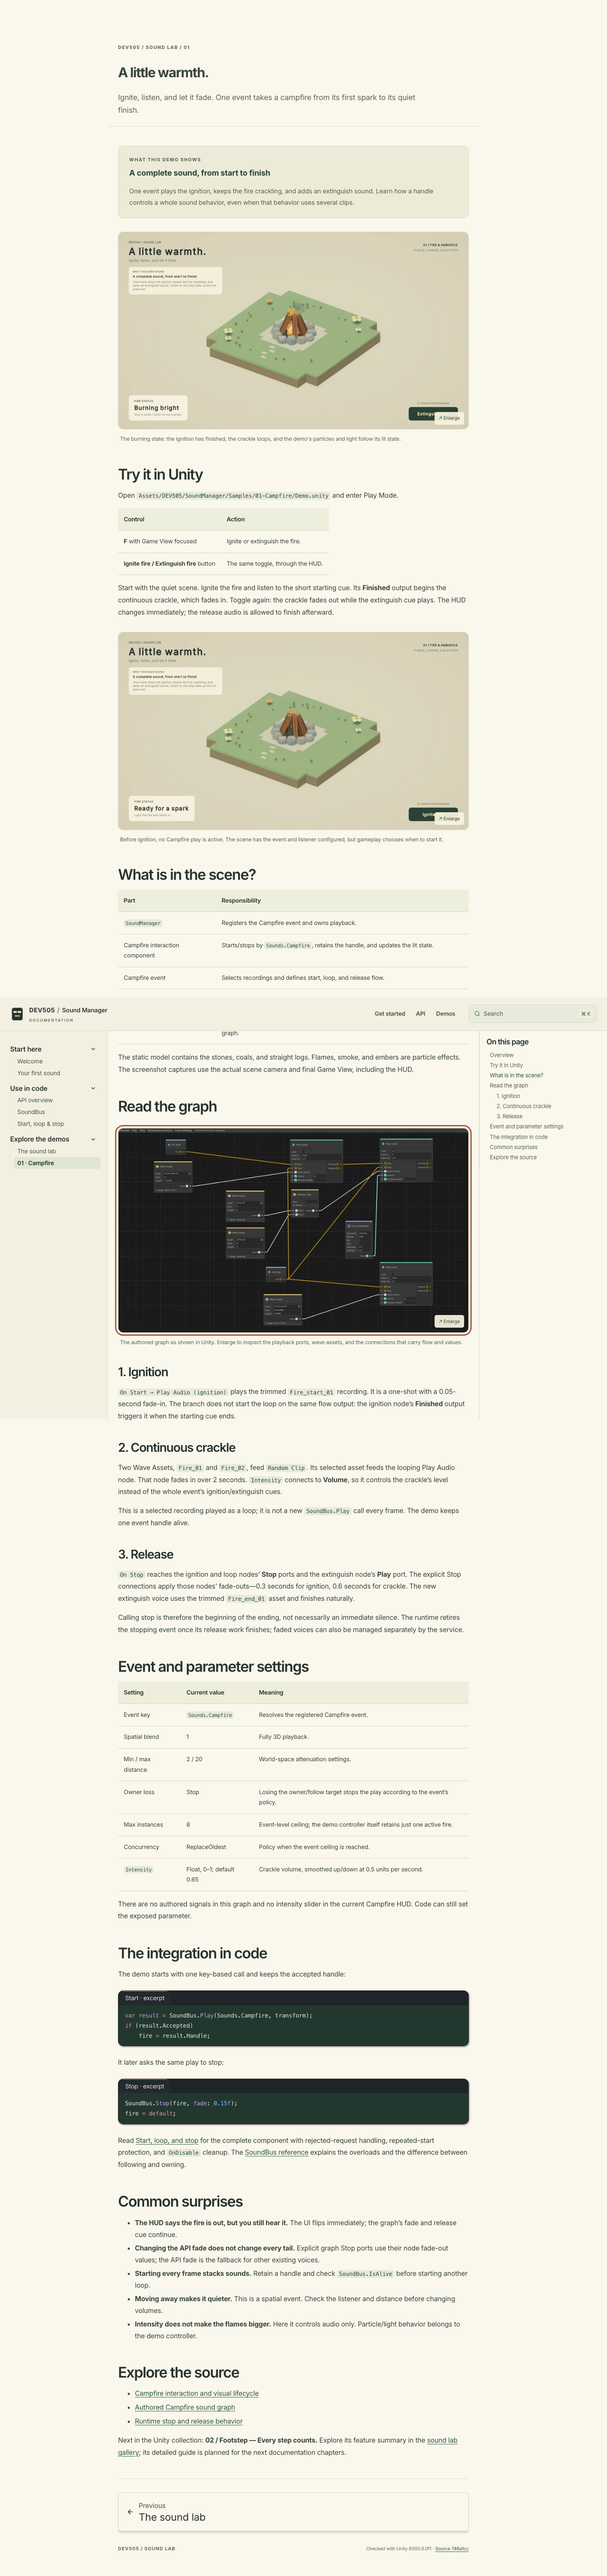
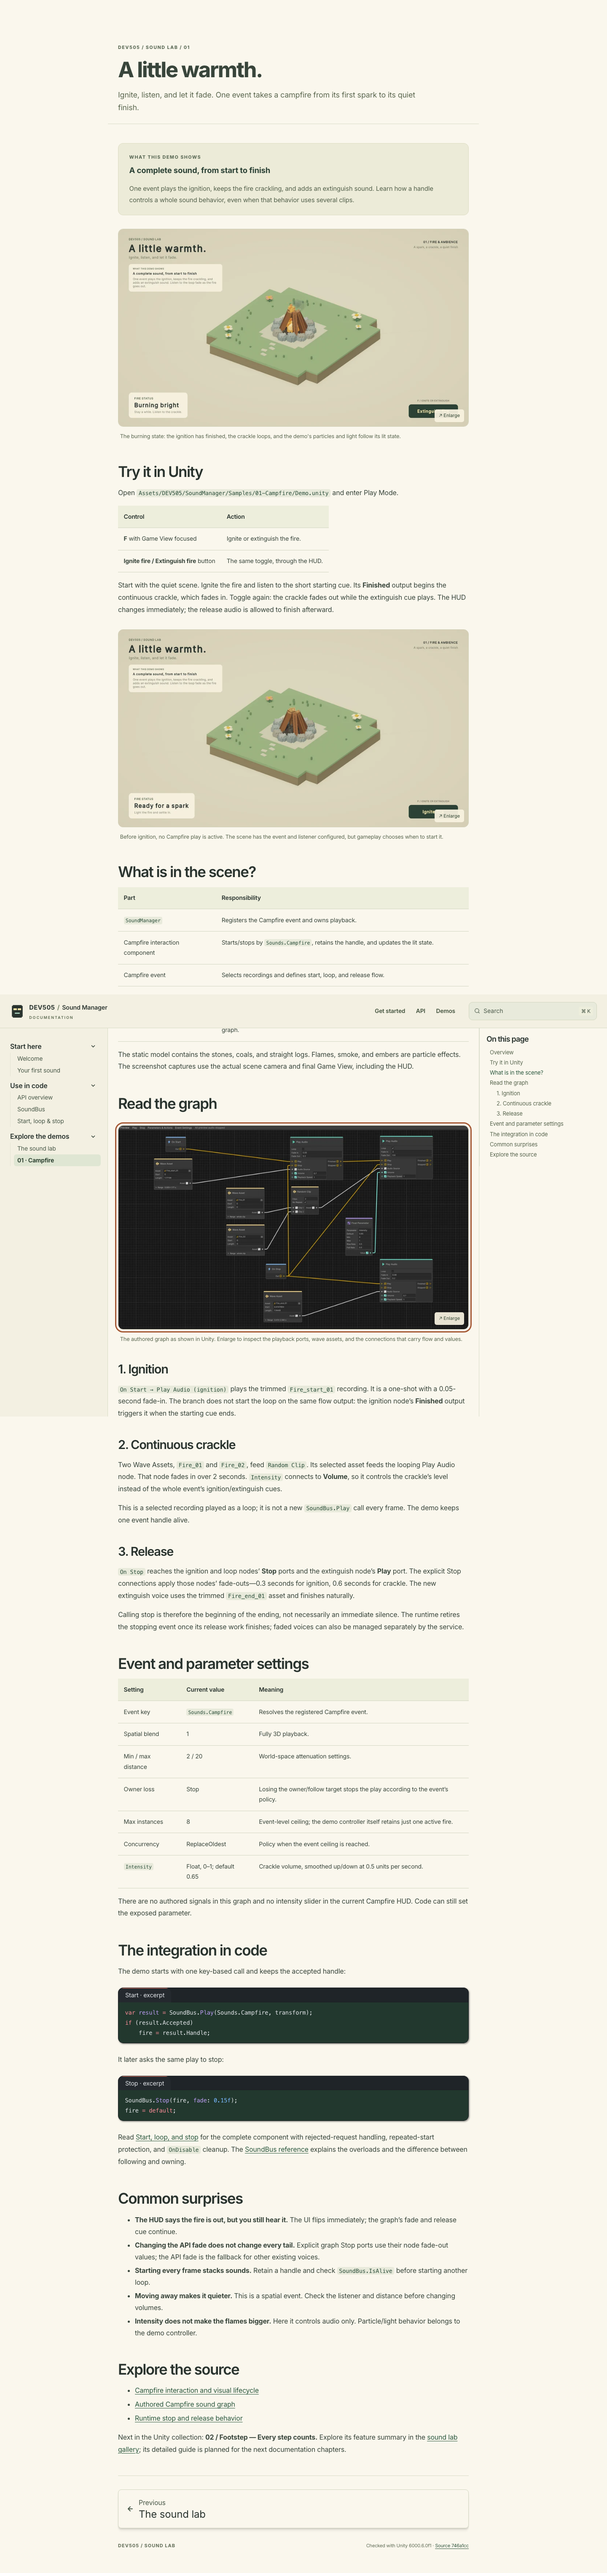
a

diff --git a/src/styles/theme.css b/src/styles/theme.css
@@ -710,3 +710,10 @@ nav.sidebar a[aria-current='page'] {
 .source-note a {
   color: #31563d;
 }
+
+.doc-title {
+  font-size: var(--sl-text-h1);
+  line-height: 1.15;
+  font-weight: 750;
+  margin-block: 1rem 0;
+}

diff --git a/ROADMAP.md b/ROADMAP.md
@@ -1,6 +1,6 @@
 # DEV505 Sound Manager — documentation roadmap
 
-Status: planning complete; implementation milestones remain open.  
+Status: M1 complete; M2–M7 remain open.  
 Prepared: 19 September 2026.  
 Specification: [SPEC.md](SPEC.md).  
 Target directory: `/Users/devisv/Projects/Web/Sound-Manager-Doc`.
@@ -9,7 +9,7 @@ Target directory: `/Users/devisv/Projects/Web/Sound-Manager-Doc`.
 
 Build one complete slice first: the shared theme, setup path, a useful API page, and the Campfire walkthrough with real Unity images. Use it to establish the visual and content pattern before expanding to all ten demos. Complete API and graph coverage alongside the remaining walkthroughs, then validate the actual GitHub Pages build.
 
-The milestones below describe work to perform after this planning step. Checked items reflect the planning audit only; they do not mean the site, examples, or screenshots have already been implemented or tested.
+Checked items reflect completed work. M0 and M1 are complete; the remaining milestones are open. M1 validation and capture evidence are recorded in the linked report.
 
 ## M0 — Source audit and planning
 
@@ -28,17 +28,19 @@ Exit condition: the intended website, content coverage, visual direction, captur
 
 Depends on: M0.
 
-- [ ] Recheck the Unity source revision and any newer API or demo changes; record the content baseline.
-- [ ] Scaffold Astro/Starlight in this directory with static output, compatible pinned dependencies, a lockfile, and a declared Node version.
-- [ ] Configure a repository-relative site base and local build/preview/check commands.
-- [ ] Establish content metadata, API-coverage records, and screenshot-manifest formats.
-- [ ] Implement the cream/forest theme, typography, responsive navigation, code blocks, explanation panel, demo card, and accessible screenshot enlargement.
-- [ ] Inspect font licensing and establish local font/media attribution.
-- [ ] Create the home-page structure, main navigation, and demo gallery data with all ten entries.
-- [ ] Capture the first real Unity Game View states and graph sections for Campfire; verify HUD inclusion, image resolution, framing, and readability.
-- [ ] Write the setup/first-sound path, a complete `SoundBus` reference page, and the Campfire walkthrough with an explained code recipe.
-- [ ] Compile and exercise the first complete example against the documented Unity API.
-- [ ] Review the result at phone and desktop sizes and test built-site search and base-path image loading.
+- [x] Recheck the Unity source revision and any newer API or demo changes; record the content baseline.
+- [x] Scaffold Astro/Starlight in this directory with static output, compatible pinned dependencies, a lockfile, and a declared Node version.
+- [x] Configure a repository-relative site base and local build/preview/check commands.
+- [x] Establish content metadata, API-coverage records, and screenshot-manifest formats.
+- [x] Implement the cream/forest theme, typography, responsive navigation, code blocks, explanation panel, demo card, and accessible screenshot enlargement.
+- [x] Inspect font licensing and establish local font/media attribution.
+- [x] Create the home-page structure, main navigation, and demo gallery data with all ten entries.
+- [x] Capture the first real Unity Game View states and graph sections for Campfire; verify HUD inclusion, image resolution, framing, and readability.
+- [x] Write the setup/first-sound path, a complete `SoundBus` reference page, and the Campfire walkthrough with an explained code recipe.
+- [x] Compile and exercise the first complete example against the documented Unity API.
+- [x] Review the result at phone and desktop sizes and test built-site search and base-path image loading.
+
+Completed: 19 September 2026. Evidence: [M1 validation report](validation/M1.md).
 
 Deliverable: a local preview demonstrating the final visual and editorial pattern with real content and images.
 
@@ -206,4 +208,4 @@ Future enhancements can include versioned documentation, localized content, opti
 
 The work is complete when all ten demos have detailed, accurate pages with actual Unity screenshots; the supported API and implemented graph features are documented; usage examples are verified; the shared visual style is recognizable; the static build and contributor workflow are reproducible; and the live GitHub Pages site passes the publication checks.
 
-For this planning step, the deliverables are the specification and this roadmap only. All implementation, capture, validation, and publishing tasks above remain explicitly open.
+M0 produced the specification and roadmap. M1 now delivers the first working documentation slice with actual Unity captures and a verified example. M2–M7 remain open; no remote repository or public deployment was created.

diff --git a/validation/M1.md b/validation/M1.md
@@ -1,0 +1,51 @@
+# M1 validation — 19 September 2026
+
+Completed against Unity source revision `746a1cc7d2602bc59df6096eac50508ded6ef49e` in Unity `6000.6.0f1`.
+
+## Delivered
+
+- Astro 7.3.3 / Starlight 0.42.2, pinned dependencies and Node 24.21.0 declaration.
+- Seven authored pages plus the generated 404 page: home, first sound, API overview, full SoundBus reference, lifecycle recipe, demo gallery, and Campfire.
+- Cream/forest theme, local Inter variable font and OFL license, DEV505 mark, responsive documentation navigation, code copying, and accessible screenshot dialogs.
+- Gallery data for all ten current scenes. Campfire's guide is available; the other nine guides remain future milestones rather than dead links.
+- Four original Unity captures: unlit and lit Game Views with HUD, clean lit hero, and the actual graph editor. Original Game Views are 1920 × 1080; the graph surface is 3456 × 2008.
+- Content schema, source baseline, screenshot manifest with hashes/reproduction steps, and coverage for all 18 public SoundBus member signatures/property entries.
+
+## Verification performed
+
+`npm run validate` passes: Astro/TypeScript checks, content/provenance checks, production build, and local link/anchor/asset checks under `/Sound-Manager-Doc/`. Eight HTML outputs and 325 local references were checked. Pagefind's production search index was generated.
+
+`npm run test:browser` passes five browser checks:
+
+1. Home hero image, ten-card gallery, main navigation, and client error check.
+2. Direct Campfire route/refresh, three explanatory images, full-resolution graph dialog, Escape dismissal, and focus restoration.
+3. Production search for `SoundBus` and `crackle`, returning relevant reference/walkthrough results.
+4. Clipboard output exactly matches the complete validated C# example.
+5. Home, setup, API, and Campfire at 390 and 320 CSS px, without page-wide horizontal overflow; mobile menu navigation.
+
+The generated desktop/mobile/search images were visually reviewed. The preview uses the intended cream, forest, muted green, rounded panels, and actual voxel imagery. A Markdown sibling-margin issue in the card grids was corrected after review.
+
+## Unity example verification
+
+The exact `examples/CampfireSound.cs` was compiled in memory with the runtime harness in `VerifyCampfireExample.cs.txt`. The harness executed in the running Campfire scene and passed eight checks:
+
+- Initial play accepted and retained a live handle.
+- Repeated Ignite did not create another instance.
+- Ignition finished and one crackle voice remained looping.
+- Generated Intensity parameter accepted a live update.
+- Per-play pause and resume succeeded.
+- Extinguish cleared the component's handle while release playback remained alive.
+- Release completed and the previous handle stopped being alive.
+- Disabling the component cleaned up its second play and completed its release.
+
+See `campfire-example.json` for the example hash, result, timing, notifications, and compiler diagnostics. The harness reported two Unity deprecation warnings for its `FindFirstObjectByType` lookup calls; neither warning comes from the published example component. No compilation error or failed runtime check occurred. The complete example is imported directly into its page, so validation and displayed code use the same source file. The shorter reference snippets are labeled excerpts and were checked against the source contracts; they are not claimed as standalone compiled components.
+
+A relevant source correction is documented: Campfire's On Stop flow explicitly stops its ignition/crackle nodes, applying their authored 0.3/0.6-second fade-outs. The API's requested 0.15-second fade is a fallback for remaining existing voices, not an override of those node Stop paths.
+
+## Unity session preservation
+
+The scene was Campfire, clean, and outside Play Mode before work. Capture/testing temporarily used a fixed-resolution Game View and runtime background playback. Afterwards, Play Mode was stopped, the temporary test GameObject and graph tab were removed, the original Game View size was restored, the temporary resolution was removed, and background playback was restored to false. The final scene remained Campfire, not dirty, and not compiling. The source worktree contained the same pre-existing changes as before this milestone.
+
+## Scope remaining
+
+M2–M7 remain open: broader guides/API/node coverage, detailed demos 02–10 with captures, expanded QA, deployment workflow, and public publication. This is a local preview of M1, not a claim that the whole documentation roadmap or a GitHub Pages deployment is finished.

diff --git a/SPEC.md b/SPEC.md
@@ -1,6 +1,6 @@
 # DEV505 Sound Manager — documentation website specification
 
-Status: planning specification; website implementation has not started.  
+Status: specification baseline; M1 implemented on 19 September 2026. See the roadmap and `validation/M1.md` for current progress.  
 Prepared: 19 September 2026.  
 Companion: [Implementation roadmap](ROADMAP.md).
 
@@ -20,7 +20,7 @@ Version-one deliverables:
 - A standalone static build, local preview commands, and a GitHub Pages deployment workflow.
 - A contributor guide explaining how to update content, validate examples, recapture screenshots, and release a new documentation revision.
 
-This planning step creates only `SPEC.md` and `ROADMAP.md`. Package installation, website scaffolding, screenshot production, and deployment belong to the implementation milestones in the roadmap.
+The initial planning step created `SPEC.md` and `ROADMAP.md`. M1 now implements the foundation and Campfire slice; the remaining scope is tracked by the implementation milestones in the roadmap.
 
 ## 2. Source of truth and versioning
 
@@ -314,7 +314,7 @@ Create a capture manifest containing scene path, demo slug, source revision, cap
 
 Protect the user's working session: inspect the current scene, dirty state, and Play Mode before switching; preserve unsaved edits; record and restore temporary capture settings and the original scene/state where feasible. Do not change project-wide settings solely to make a screenshot. Bring the running Editor to the foreground if background Play Mode prevents capture commands from progressing.
 
-No new documentation screenshots have been captured in this planning step. Their production and visual review are explicit implementation work.
+M1 has captured and reviewed the Campfire pilot set. The remaining nine demos require captures in their implementation milestones.
 
 ## 10. Visual system and interaction
 
@@ -368,4 +368,4 @@ Completion requires all ten detailed pages, current Unity screenshots and graph 
 
 Out of scope for this release: changing Sound Manager itself, rebuilding its demo models, adding new demo scenes, WebGL ports, a browser graph editor, cloud accounts/backends, paid hosting, automatic API-doc publishing from an unreviewed source update, and translating the whole site. These can be separate follow-up projects.
 
-Implementation can proceed using the choices in this specification. The actual repository owner/name and Pages configuration must be verified when deployment is undertaken; no repository or live site is created by this planning step.
+Implementation can proceed using the choices in this specification. The actual repository owner/name and Pages configuration must be verified when deployment is undertaken; no remote repository or live site has been created as part of M1.
